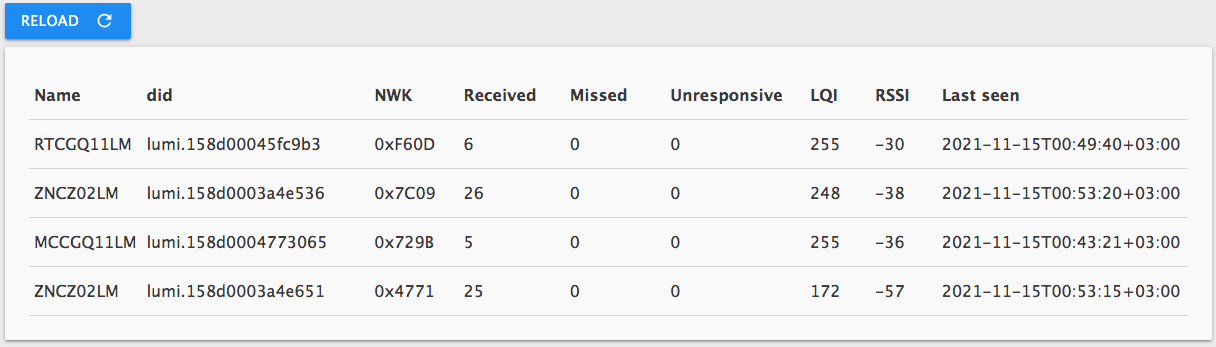
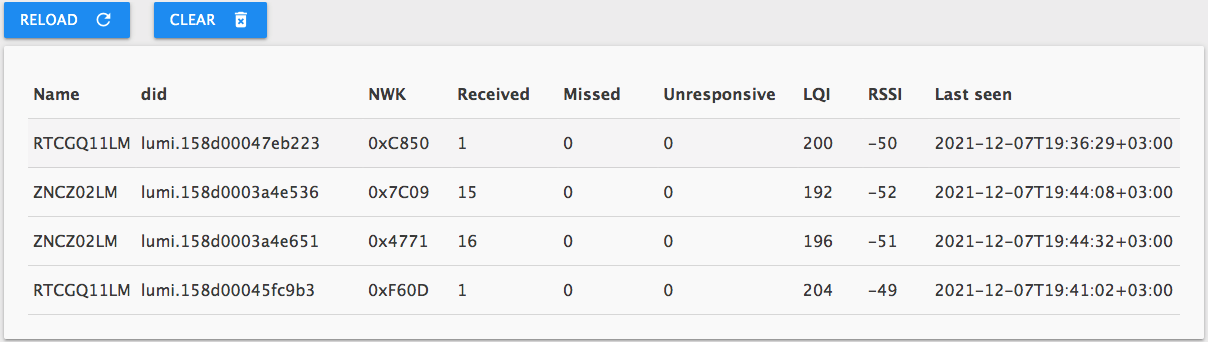
Updated README

diff --git a/README.md b/README.md
@@ -128,7 +128,7 @@ __*!!Attantion:*__ Firmware versions lower than `1.4.7_0000` adapter not support
 - [ ] Xiaomi Flower Pot (HHCCPOT002)
 - [ ] Xiaomi Magic Cube (XMMF01JQD)
 - [ ] Xiaomi Mosquito Repellent (WX08ZM)
-- [ ] Xiaomi Motion Sensor 2 (RTCGQ02LM)
+- [x] Xiaomi Motion Sensor 2 (RTCGQ02LM)
 - [ ] Xiaomi Night Light 2 (MJYD02YL-A)
 - [ ] Xiaomi Qingping Door Sensor (CGH1)
 - [ ] Xiaomi Qingping Motion Sensor (CGPR1)
@@ -200,9 +200,11 @@ Move devices DB files to memory. This can improve work zigbee and bluetooth devi
 
 <img src="static/tab-statistic.png">
 
-_**Note:** Statistic don't load by default on page open. You have to use button `RELOAD` to update statistic on page._
+- Statistic don't load by default on page open. You have to use button `RELOAD` to update statistic on page.
 
-_**Note 2:** You should to keep in mind this is not really statistic of zigbee messages between gateway and device (zigbee protocol statistic). This is statistic of messages  which get adapter. What does it means? No differences for adapter is gateway don't get message from device or adapter himself don't get message from gateway (by MQTT). And if by any cases (Wi-Fi connection problem, for example) adapter don't get messages from gateway it interpritate this messages as missed, but actualy zigbee is ok._
+- Also you can clear statistic with button `CLEAR`. This does not clean statistic actually as it is. You just clear states which hold statistic. This can be useful in case adapter restart because ioBroker states don't clear on restart.
+
+_**Attantion:** You should to keep in mind this is not really statistic of zigbee messages between gateway and device (zigbee protocol statistic). This is statistic of messages  which get adapter. What does it means? No differences for adapter is gateway don't get message from device or adapter himself don't get message from gateway (by MQTT). And if by any cases (Wi-Fi connection problem, for example) adapter don't get messages from gateway it interpritate this messages as missed, but actualy zigbee is ok._
 
 
 ## Changelog
@@ -210,6 +212,12 @@ _**Note 2:** You should to keep in mind this is not really statistic of zigbee m
     Placeholder for the next version (at the beginning of the line):
     ### **WORK IN PROGRESS**
 -->
+### **WORK IN PROGRESS**
+* Added states classes and rewrote code with using them
+* Added tab-page of adapter
+* Added zigbee (lumi) devices statistic
+* A lot of code improvements
+
 ### 0.1.0 (2021-11-09)
 * (Evgenii Abramov) Added support for BLE devices (needed tests)
 * (Evgenii Abramov) Improvements for zigbee and BLE support
